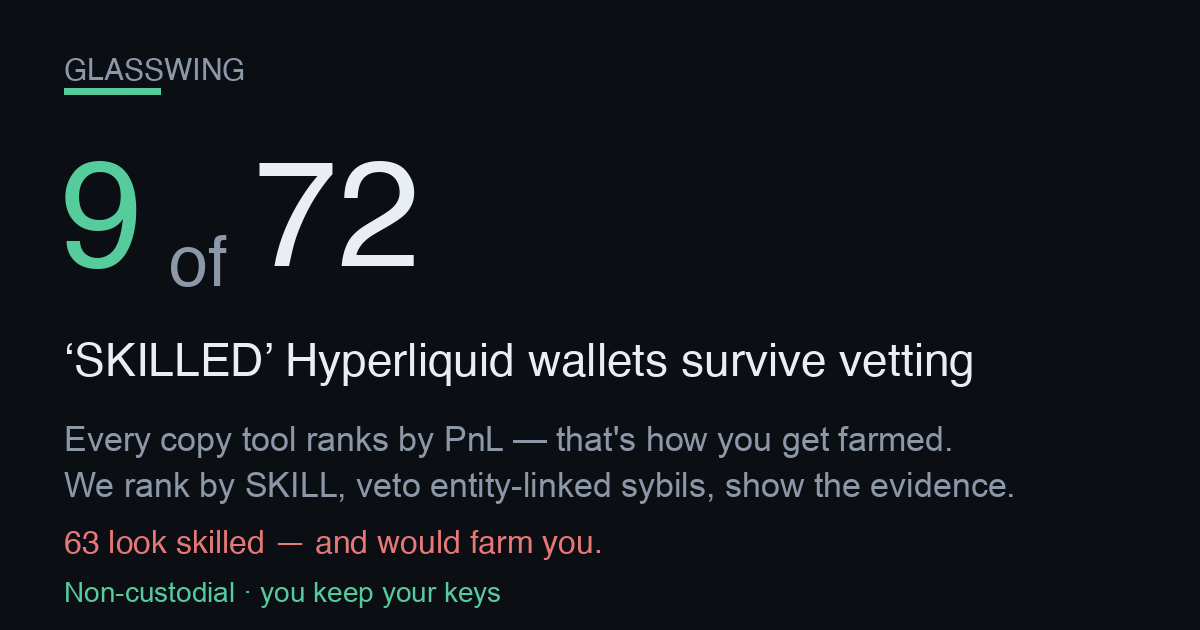
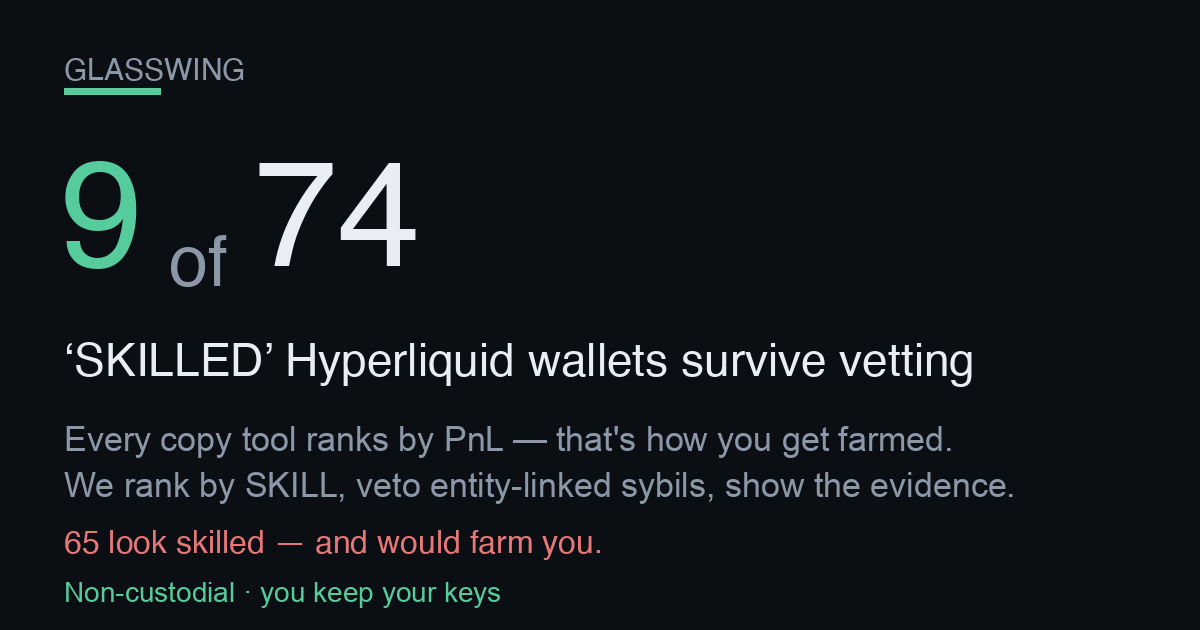
publish funnel 2026-07-26T18:18:38Z

Changed region(s): [[0.2775, 0.2413, 0.37, 0.4222], [0.0617, 0.8444, 0.0925, 0.8746]]

diff --git a/screener.html b/screener.html
@@ -57,4 +57,4 @@ padding:11px 22px;font-size:15px;font-weight:800;border:1px solid var(--good)}
 footer{margin-top:34px;color:var(--muted);font-size:12px;line-height:1.6;
 border-top:1px solid var(--line);padding-top:16px}
 footer b{color:var(--ink)}
-</style></head><body><div class="wrap"><div class="nav"><a href="./index.html">&larr; Glasswing home</a><span class="sep">|</span><span>Edge Screener</span><span class="sep">|</span><a href="./dex.html">Copy a vetted leader</a></div><div class="hero"><h1>Hyperliquid Edge Screener</h1><div class="sub">Where&rsquo;s the carry, where a maker earns, and what&rsquo;s moving on Hyperliquid &mdash; live, computed from the public API. Bookmark it. Every number below is real and timestamped.</div><div class="stamp">Data as of <b>2026-07-26T12:15:39Z</b> &middot; rendered 2026-07-26T12:15:39Z &middot; 177 perps &middot; 88 HIP-3 (xyz) markets scanned</div></div><h2>Top funding &mdash; the carry table <span class="hint">perps ranked by annualized funding. Positive = longs pay shorts (a delta-neutral short earns it).</span></h2><div class="tblwrap"><table><thead><tr><th>Coin</th><th>Funding / hr</th><th>Annualized</th><th>Who pays</th><th>Open interest</th><th>24h volume</th></tr></thead><tbody><tr><td class="coin">SAGA<span class="tag thin" title="Low liquidity/OI &mdash; ADL &amp; liquidation risk; funding can flip">&#9888; thin</span></td><td>+0.0531%</td><td class="pos">+465.3%</td><td><span class="tag longs">longs pay</span></td><td>$2.1M</td><td>$92K</td></tr><tr><td class="coin">ACE<span class="tag thin" title="Low liquidity/OI &mdash; ADL &amp; liquidation risk; funding can flip">&#9888; thin</span></td><td>-0.0165%</td><td class="neg">-145.0%</td><td><span class="tag shorts">shorts pay</span></td><td>$465K</td><td>$932K</td></tr><tr><td class="coin">VINE<span class="tag thin" title="Low liquidity/OI &mdash; ADL &amp; liquidation risk; funding can flip">&#9888; thin</span></td><td>+0.0138%</td><td class="pos">+120.6%</td><td><span class="tag longs">longs pay</span></td><td>$346K</td><td>$89K</td></tr><tr><td class="coin">ZORA</td><td>-0.0087%</td><td class="neg">-76.1%</td><td><span class="tag shorts">shorts pay</span></td><td>$632K</td><td>$335K</td></tr><tr><td class="coin">KAITO</td><td>-0.0079%</td><td class="neg">-69.5%</td><td><span class="tag shorts">shorts pay</span></td><td>$11.6M</td><td>$12.1M</td></tr><tr><td class="coin">NOT<span class="tag thin" title="Low liquidity/OI &mdash; ADL &amp; liquidation risk; funding can flip">&#9888; thin</span></td><td>-0.0078%</td><td class="neg">-68.8%</td><td><span class="tag shorts">shorts pay</span></td><td>$209K</td><td>$22K</td></tr><tr><td class="coin">UMA<span class="tag thin" title="Low liquidity/OI &mdash; ADL &amp; liquidation risk; funding can flip">&#9888; thin</span></td><td>-0.0057%</td><td class="neg">-50.3%</td><td><span class="tag shorts">shorts pay</span></td><td>$304K</td><td>$96K</td></tr><tr><td class="coin">HYPER<span class="tag thin" title="Low liquidity/OI &mdash; ADL &amp; liquidation risk; funding can flip">&#9888; thin</span></td><td>-0.0053%</td><td class="neg">-46.6%</td><td><span class="tag shorts">shorts pay</span></td><td>$321K</td><td>$97K</td></tr><tr><td class="coin">AXS<span class="tag thin" title="Low liquidity/OI &mdash; ADL &amp; liquidation risk; funding can flip">&#9888; thin</span></td><td>-0.0051%</td><td class="neg">-44.7%</td><td><span class="tag shorts">shorts pay</span></td><td>$310K</td><td>$64K</td></tr><tr><td class="coin">kPEPE</td><td>+0.0039%</td><td class="pos">+34.3%</td><td><span class="tag longs">longs pay</span></td><td>$23.6M</td><td>$14.6M</td></tr><tr><td class="coin">ME<span class="tag thin" title="Low liquidity/OI &mdash; ADL &amp; liquidation risk; funding can flip">&#9888; thin</span></td><td>-0.0037%</td><td class="neg">-32.7%</td><td><span class="tag shorts">shorts pay</span></td><td>$187K</td><td>$110K</td></tr><tr><td class="coin">AVNT<span class="tag thin" title="Low liquidity/OI &mdash; ADL &amp; liquidation risk; funding can flip">&#9888; thin</span></td><td>-0.0033%</td><td class="neg">-29.2%</td><td><span class="tag shorts">shorts pay</span></td><td>$655K</td><td>$159K</td></tr></tbody></table></div><h2>Widest HIP-3 spreads &mdash; where a maker earns <span class="hint">xyz: markets by impact-price spread vs the ~0.6bps round-trip fee. A resting limit order captures the gap.</span></h2><div class="tblwrap"><table><thead><tr><th>Market</th><th>Spread</th><th>vs 0.6bps fee</th><th>Mid</th><th>24h volume</th></tr></thead><tbody><tr><td class="coin">xyz:SOFTBANK<span class="tag gm">growth</span></td><td>253.2 bps</td><td class="pos">+252.6 bps</td><td>33.7360</td><td>$44K</td></tr><tr><td class="coin">xyz:GIGADEV<span class="tag gm">growth</span></td><td>161.4 bps</td><td class="pos">+160.8 bps</td><td>66.5070</td><td>$16K</td></tr><tr><td class="coin">xyz:BIRD<span class="tag gm">growth</span></td><td>124.3 bps</td><td class="pos">+123.7 bps</td><td>2.4937</td><td>$28K</td></tr><tr><td class="coin">xyz:KIOXIA<span class="tag gm">growth</span></td><td>100.8 bps</td><td class="pos">+100.2 bps</td><td>345.3550</td><td>$509K</td></tr><tr><td class="coin">xyz:KR200<span class="tag gm">growth</span></td><td>77.5 bps</td><td class="pos">+76.9 bps</td><td>1,052.50</td><td>$48K</td></tr><tr><td class="coin">xyz:MINIMAX<span class="tag gm">growth</span></td><td>70.3 bps</td><td class="pos">+69.7 bps</td><td>24.4780</td><td>$60K</td></tr><tr><td class="coin">xyz:PURRDAT</td><td>66.4 bps</td><td class="pos">+65.8 bps</td><td>6.3694</td><td>$204K</td></tr><tr><td class="coin">xyz:BOT<span class="tag gm">growth</span></td><td>54.5 bps</td><td class="pos">+53.9 bps</td><td>25.0280</td><td>$84K</td></tr><tr><td class="coin">xyz:GBP<span class="tag gm">growth</span></td><td>39.5 bps</td><td class="pos">+38.9 bps</td><td>1.3340</td><td>$57K</td></tr><tr><td class="coin">xyz:HIMS<span class="tag gm">growth</span></td><td>38.8 bps</td><td class="pos">+38.2 bps</td><td>28.2910</td><td>$126K</td></tr><tr><td class="coin">xyz:ZHIPU<span class="tag gm">growth</span></td><td>37.9 bps</td><td class="pos">+37.3 bps</td><td>159.9600</td><td>$387K</td></tr><tr><td class="coin">xyz:QNT<span class="tag gm">growth</span></td><td>36.9 bps</td><td class="pos">+36.3 bps</td><td>54.3830</td><td>$156K</td></tr></tbody></table></div><h2>Momentum &amp; volume &mdash; what&rsquo;s moving <span class="hint">perps by 24h volume with the 24h price change (mark vs prior-day).</span></h2><div class="tblwrap"><table><thead><tr><th>Coin</th><th>24h volume</th><th>24h change</th><th>Mark</th></tr></thead><tbody><tr><td class="coin">BTC</td><td>$462.9M</td><td class="pos">+0.86%</td><td>64,581.00</td></tr><tr><td class="coin">ETH</td><td>$247.5M</td><td class="pos">+1.76%</td><td>1,890.30</td></tr><tr><td class="coin">HYPE</td><td>$97.9M</td><td class="pos">+2.18%</td><td>58.7050</td></tr><tr><td class="coin">SOL</td><td>$83.5M</td><td class="pos">+1.53%</td><td>75.0030</td></tr><tr><td class="coin">kSHIB</td><td>$49.5M</td><td class="pos">+27.58%</td><td>0.005426</td></tr><tr><td class="coin">ZEC</td><td>$24.9M</td><td class="pos">+3.14%</td><td>493.4700</td></tr><tr><td class="coin">kPEPE</td><td>$14.6M</td><td class="pos">+12.29%</td><td>0.003016</td></tr><tr><td class="coin">XRP</td><td>$13.8M</td><td class="pos">+1.05%</td><td>1.1008</td></tr><tr><td class="coin">DOGE</td><td>$13.7M</td><td class="pos">+5.47%</td><td>0.073322</td></tr><tr><td class="coin">KAITO</td><td>$12.1M</td><td class="pos">+23.95%</td><td>1.1907</td></tr><tr><td class="coin">VVV</td><td>$11.4M</td><td class="pos">+10.46%</td><td>14.2620</td></tr><tr><td class="coin">PUMP</td><td>$8.7M</td><td class="pos">+2.94%</td><td>0.001821</td></tr></tbody></table></div><div class="cta"><h2>These are the opportunities. Now copy the people who trade them.</h2><p class="lead">Spotting the carry and the spreads is the easy part &mdash; sizing, timing and risk are where most traders bleed. Copy the <b>skill-vetted</b> Hyperliquid leaders who actually trade these edges. Non-custodial: <b>you keep your keys and your funds</b> the entire time.</p><div class="row"><a class="btn" href="./index.html">See the vetted leaders &rarr;</a><a class="btn ghost" href="./dex.html">Start copying (non-custodial) &rarr;</a></div><div class="nc"><b>Non-custodial &amp; honest:</b> we never hold your keys or funds. Copying routes through a <b>0.01%</b> (1bp) on-chain builder fee &mdash; that is the only thing we ever charge, and it is the same fee shown on the copy page. Nothing on this screener is executed for you; it is information only.</div></div><footer><b>Not financial advice.</b> Funding rates, spreads and volumes are live snapshots that change every block; figures can be stale by the time you act. A high funding rate is <b>not free money</b> &mdash; the biggest rates sit on the thinnest, most crowded books (flagged &#9888; thin), where funding can flip against you and auto-deleveraging (ADL) or liquidation can close your position. &ldquo;Spread&rdquo; here is the impact-price spread (a conservative maker signal), not a guaranteed fill. HIP-3 markets are experimental. Do your own research and size responsibly. Glasswing is <b>non-custodial</b> &mdash; we never take custody of your keys or funds.</footer></div></body></html>
+</style></head><body><div class="wrap"><div class="nav"><a href="./index.html">&larr; Glasswing home</a><span class="sep">|</span><span>Edge Screener</span><span class="sep">|</span><a href="./dex.html">Copy a vetted leader</a></div><div class="hero"><h1>Hyperliquid Edge Screener</h1><div class="sub">Where&rsquo;s the carry, where a maker earns, and what&rsquo;s moving on Hyperliquid &mdash; live, computed from the public API. Bookmark it. Every number below is real and timestamped.</div><div class="stamp">Data as of <b>2026-07-26T18:17:25Z</b> &middot; rendered 2026-07-26T18:17:25Z &middot; 177 perps &middot; 88 HIP-3 (xyz) markets scanned</div></div><h2>Top funding &mdash; the carry table <span class="hint">perps ranked by annualized funding. Positive = longs pay shorts (a delta-neutral short earns it).</span></h2><div class="tblwrap"><table><thead><tr><th>Coin</th><th>Funding / hr</th><th>Annualized</th><th>Who pays</th><th>Open interest</th><th>24h volume</th></tr></thead><tbody><tr><td class="coin">SAGA<span class="tag thin" title="Low liquidity/OI &mdash; ADL &amp; liquidation risk; funding can flip">&#9888; thin</span></td><td>+0.0543%</td><td class="pos">+476.0%</td><td><span class="tag longs">longs pay</span></td><td>$2.1M</td><td>$67K</td></tr><tr><td class="coin">ACE<span class="tag thin" title="Low liquidity/OI &mdash; ADL &amp; liquidation risk; funding can flip">&#9888; thin</span></td><td>-0.0279%</td><td class="neg">-244.1%</td><td><span class="tag shorts">shorts pay</span></td><td>$425K</td><td>$721K</td></tr><tr><td class="coin">CASHCAT</td><td>+0.0240%</td><td class="pos">+210.2%</td><td><span class="tag longs">longs pay</span></td><td>$10.2M</td><td>$5.5M</td></tr><tr><td class="coin">MEME<span class="tag thin" title="Low liquidity/OI &mdash; ADL &amp; liquidation risk; funding can flip">&#9888; thin</span></td><td>-0.0123%</td><td class="neg">-107.7%</td><td><span class="tag shorts">shorts pay</span></td><td>$419K</td><td>$106K</td></tr><tr><td class="coin">ZORA</td><td>-0.0122%</td><td class="neg">-106.9%</td><td><span class="tag shorts">shorts pay</span></td><td>$621K</td><td>$315K</td></tr><tr><td class="coin">XMR</td><td>+0.0095%</td><td class="pos">+83.6%</td><td><span class="tag longs">longs pay</span></td><td>$51.7M</td><td>$3.2M</td></tr><tr><td class="coin">XAI<span class="tag thin" title="Low liquidity/OI &mdash; ADL &amp; liquidation risk; funding can flip">&#9888; thin</span></td><td>-0.0064%</td><td class="neg">-56.2%</td><td><span class="tag shorts">shorts pay</span></td><td>$362K</td><td>$54K</td></tr><tr><td class="coin">UMA<span class="tag thin" title="Low liquidity/OI &mdash; ADL &amp; liquidation risk; funding can flip">&#9888; thin</span></td><td>-0.0062%</td><td class="neg">-54.5%</td><td><span class="tag shorts">shorts pay</span></td><td>$304K</td><td>$102K</td></tr><tr><td class="coin">MON</td><td>-0.0052%</td><td class="neg">-45.1%</td><td><span class="tag shorts">shorts pay</span></td><td>$23.8M</td><td>$1.8M</td></tr><tr><td class="coin">GRASS<span class="tag thin" title="Low liquidity/OI &mdash; ADL &amp; liquidation risk; funding can flip">&#9888; thin</span></td><td>+0.0048%</td><td class="pos">+42.2%</td><td><span class="tag longs">longs pay</span></td><td>$7.7M</td><td>$169K</td></tr><tr><td class="coin">TRUMP</td><td>-0.0042%</td><td class="neg">-36.5%</td><td><span class="tag shorts">shorts pay</span></td><td>$8.8M</td><td>$1.5M</td></tr><tr><td class="coin">KAITO</td><td>-0.0041%</td><td class="neg">-36.2%</td><td><span class="tag shorts">shorts pay</span></td><td>$11.2M</td><td>$20.5M</td></tr></tbody></table></div><h2>Widest HIP-3 spreads &mdash; where a maker earns <span class="hint">xyz: markets by impact-price spread vs the ~0.6bps round-trip fee. A resting limit order captures the gap.</span></h2><div class="tblwrap"><table><thead><tr><th>Market</th><th>Spread</th><th>vs 0.6bps fee</th><th>Mid</th><th>24h volume</th></tr></thead><tbody><tr><td class="coin">xyz:GIGADEV<span class="tag gm">growth</span></td><td>413.1 bps</td><td class="pos">+412.5 bps</td><td>66.6735</td><td>$10K</td></tr><tr><td class="coin">xyz:SOFTBANK<span class="tag gm">growth</span></td><td>201.1 bps</td><td class="pos">+200.5 bps</td><td>33.9970</td><td>$28K</td></tr><tr><td class="coin">xyz:BIRD<span class="tag gm">growth</span></td><td>170.3 bps</td><td class="pos">+169.7 bps</td><td>2.4958</td><td>$20K</td></tr><tr><td class="coin">xyz:PURRDAT</td><td>112.6 bps</td><td class="pos">+112.0 bps</td><td>6.4344</td><td>$224K</td></tr><tr><td class="coin">xyz:BOT<span class="tag gm">growth</span></td><td>99.7 bps</td><td class="pos">+99.1 bps</td><td>25.2850</td><td>$73K</td></tr><tr><td class="coin">xyz:KR200<span class="tag gm">growth</span></td><td>78.1 bps</td><td class="pos">+77.5 bps</td><td>1,057.65</td><td>$62K</td></tr><tr><td class="coin">xyz:MINIMAX<span class="tag gm">growth</span></td><td>74.2 bps</td><td class="pos">+73.6 bps</td><td>24.8010</td><td>$88K</td></tr><tr><td class="coin">xyz:KIOXIA<span class="tag gm">growth</span></td><td>71.5 bps</td><td class="pos">+70.9 bps</td><td>344.1250</td><td>$835K</td></tr><tr><td class="coin">xyz:URNM<span class="tag gm">growth</span></td><td>64.3 bps</td><td class="pos">+63.7 bps</td><td>49.7855</td><td>$14K</td></tr><tr><td class="coin">xyz:SHAZ<span class="tag gm">growth</span></td><td>58.1 bps</td><td class="pos">+57.5 bps</td><td>64.1060</td><td>$42K</td></tr><tr><td class="coin">xyz:GME<span class="tag gm">growth</span></td><td>48.4 bps</td><td class="pos">+47.8 bps</td><td>21.2755</td><td>$64K</td></tr><tr><td class="coin">xyz:SMH<span class="tag gm">growth</span></td><td>41.5 bps</td><td class="pos">+40.9 bps</td><td>569.9850</td><td>$385K</td></tr></tbody></table></div><h2>Momentum &amp; volume &mdash; what&rsquo;s moving <span class="hint">perps by 24h volume with the 24h price change (mark vs prior-day).</span></h2><div class="tblwrap"><table><thead><tr><th>Coin</th><th>24h volume</th><th>24h change</th><th>Mark</th></tr></thead><tbody><tr><td class="coin">BTC</td><td>$536.6M</td><td class="pos">+0.49%</td><td>64,645.00</td></tr><tr><td class="coin">ETH</td><td>$318.4M</td><td class="pos">+2.13%</td><td>1,912.90</td></tr><tr><td class="coin">HYPE</td><td>$103.8M</td><td class="pos">+1.34%</td><td>59.1025</td></tr><tr><td class="coin">SOL</td><td>$99.9M</td><td class="pos">+1.09%</td><td>75.3191</td></tr><tr><td class="coin">kSHIB</td><td>$47.4M</td><td class="pos">+4.57%</td><td>0.005197</td></tr><tr><td class="coin">kPEPE</td><td>$21.1M</td><td class="pos">+4.04%</td><td>0.002911</td></tr><tr><td class="coin">ZEC</td><td>$20.9M</td><td class="pos">+0.89%</td><td>492.3700</td></tr><tr><td class="coin">KAITO</td><td>$20.5M</td><td class="pos">+20.31%</td><td>1.1640</td></tr><tr><td class="coin">DOGE</td><td>$13.6M</td><td class="neg">-0.65%</td><td>0.072734</td></tr><tr><td class="coin">XRP</td><td>$13.2M</td><td class="neg">-0.16%</td><td>1.1004</td></tr><tr><td class="coin">PUMP</td><td>$11.6M</td><td class="pos">+2.73%</td><td>0.001843</td></tr><tr><td class="coin">VVV</td><td>$11.4M</td><td class="neg">-0.09%</td><td>13.7040</td></tr></tbody></table></div><div class="cta"><h2>These are the opportunities. Now copy the people who trade them.</h2><p class="lead">Spotting the carry and the spreads is the easy part &mdash; sizing, timing and risk are where most traders bleed. Copy the <b>skill-vetted</b> Hyperliquid leaders who actually trade these edges. Non-custodial: <b>you keep your keys and your funds</b> the entire time.</p><div class="row"><a class="btn" href="./index.html">See the vetted leaders &rarr;</a><a class="btn ghost" href="./dex.html">Start copying (non-custodial) &rarr;</a></div><div class="nc"><b>Non-custodial &amp; honest:</b> we never hold your keys or funds. Copying routes through a <b>0.01%</b> (1bp) on-chain builder fee &mdash; that is the only thing we ever charge, and it is the same fee shown on the copy page. Nothing on this screener is executed for you; it is information only.</div></div><footer><b>Not financial advice.</b> Funding rates, spreads and volumes are live snapshots that change every block; figures can be stale by the time you act. A high funding rate is <b>not free money</b> &mdash; the biggest rates sit on the thinnest, most crowded books (flagged &#9888; thin), where funding can flip against you and auto-deleveraging (ADL) or liquidation can close your position. &ldquo;Spread&rdquo; here is the impact-price spread (a conservative maker signal), not a guaranteed fill. HIP-3 markets are experimental. Do your own research and size responsibly. Glasswing is <b>non-custodial</b> &mdash; we never take custody of your keys or funds.</footer></div></body></html>

diff --git a/track.html b/track.html
@@ -62,35 +62,35 @@ font-weight:600;font-size:14px}
 <div class="wrap">
   <div class="hero">
     <h1>Self-verifying on-chain track record</h1>
-    <div class="big">$331.39</div>
+    <div class="big">$327.14</div>
     <div class="sub">current on-chain equity (perp + vault + spot USDC)</div>
     <div class="addr">0xbe6C1b09662BbE52CC93279D103Feb27985DdBc1</div>
-    <div class="stage early">7 days live — EARLY / NOT YET A MATURE RECORD</div>
+    <div class="stage early">8 days live — EARLY / NOT YET A MATURE RECORD</div>
   </div>
 
-  <div class="warnbar">EARLY-STAGE: this record is only 7 days live. It is NOT a mature track record and NOT an APR promise. We deliberately do not annualize a sample this young. Verify every figure yourself below.</div>
+  <div class="warnbar">EARLY-STAGE: this record is only 8 days live. It is NOT a mature track record and NOT an APR promise. We deliberately do not annualize a sample this young. Verify every figure yourself below.</div>
 
   <h2>On-chain figures <span style="color:var(--muted);font-weight:400;font-size:13px">
   &mdash; every one reproducible from the public info API</span></h2>
-  <table><tbody><tr><td class="k">On-chain equity (perp + vault + spot USDC)</td><td class="v">$331.39</td></tr><tr><td class="k">Perp account value</td><td class="v">$217.51</td></tr><tr><td class="k">Vault equity</td><td class="v">$49.74</td></tr><tr><td class="k">Spot USDC</td><td class="v">$64.14</td></tr><tr><td class="k">Withdrawable</td><td class="v">$93.33</td></tr></tbody></table>
+  <table><tbody><tr><td class="k">On-chain equity (perp + vault + spot USDC)</td><td class="v">$327.14</td></tr><tr><td class="k">Perp account value</td><td class="v">$213.15</td></tr><tr><td class="k">Vault equity</td><td class="v">$49.85</td></tr><tr><td class="k">Spot USDC</td><td class="v">$64.14</td></tr><tr><td class="k">Withdrawable</td><td class="v">$94.99</td></tr></tbody></table>
 
-  <h2>Vault deposits (on-chain)</h2><table><thead><tr><th>Vault address</th><th>Our equity</th></tr></thead><tbody><tr><td class="mono">0x2431edfcb662e6ff6deab113cc91878a0b53fb0f</td><td class="v">$0.01</td></tr><tr><td class="mono">0x697bc3dd77539fa84156d0e1c95287ea5524fd6b</td><td class="v">$25.53</td></tr><tr><td class="mono">0x8825e6ed11c7f9c0874579c9f4bba192b9e81c8f</td><td class="v">$0.12</td></tr><tr><td class="mono">0xc71f5a493b937e4b1798b86510630336a6dfd804</td><td class="v">$24.09</td></tr></tbody></table>
+  <h2>Vault deposits (on-chain)</h2><table><thead><tr><th>Vault address</th><th>Our equity</th></tr></thead><tbody><tr><td class="mono">0x2431edfcb662e6ff6deab113cc91878a0b53fb0f</td><td class="v">$0.01</td></tr><tr><td class="mono">0x697bc3dd77539fa84156d0e1c95287ea5524fd6b</td><td class="v">$25.59</td></tr><tr><td class="mono">0x8825e6ed11c7f9c0874579c9f4bba192b9e81c8f</td><td class="v">$0.12</td></tr><tr><td class="mono">0xc71f5a493b937e4b1798b86510630336a6dfd804</td><td class="v">$24.14</td></tr></tbody></table>
 
   <h2>Performance <span style="color:var(--muted);font-weight:400;font-size:13px">
   &mdash; honest stage, no annualization</span></h2>
-  <table><tbody><tr><td class="k">Days live (our formal record)</td><td class="v">7</td></tr><tr><td class="k">Maturity</td><td class="v">EARLY / NOT YET A MATURE RECORD</td></tr><tr><td class="k">Current real strategy income / day</td><td class="v">$0.0645</td></tr><tr><td class="k">Cumulative net income (if attributed)</td><td class="v">$0.4725</td></tr><tr><td class="k">Annualized APR</td><td class="v">intentionally NOT computed (record too young)</td></tr></tbody></table>
+  <table><tbody><tr><td class="k">Days live (our formal record)</td><td class="v">8</td></tr><tr><td class="k">Maturity</td><td class="v">EARLY / NOT YET A MATURE RECORD</td></tr><tr><td class="k">Current real strategy income / day</td><td class="v">$0.0639</td></tr><tr><td class="k">Cumulative net income (if attributed)</td><td class="v">$0.4815</td></tr><tr><td class="k">Annualized APR</td><td class="v">intentionally NOT computed (record too young)</td></tr></tbody></table>
 
   <h2>Strategy arms <span style="color:var(--muted);font-weight:400;font-size:13px">
   &mdash; internal marks, cross-checkable against chain equity</span></h2>
-  <table><thead><tr><th>Arm</th><th>Status</th><th>Real / day</th><th>Note</th></tr></thead><tbody><tr><td class="v">carry</td><td><span class="badge live">live</span></td><td class="v">$0.0645</td><td class="k"></td></tr><tr><td class="v">copy</td><td><span class="badge live">live</span></td><td class="v">$0.0000</td><td class="k"></td></tr><tr><td class="v">builder</td><td><span class="badge off">—</span></td><td class="v">$0.0000</td><td class="k">proven live; $0 until distributed (∝ users&#x27; volume)</td></tr></tbody></table>
+  <table><thead><tr><th>Arm</th><th>Status</th><th>Real / day</th><th>Note</th></tr></thead><tbody><tr><td class="v">carry</td><td><span class="badge live">live</span></td><td class="v">$0.0639</td><td class="k"></td></tr><tr><td class="v">copy</td><td><span class="badge live">live</span></td><td class="v">$0.0000</td><td class="k"></td></tr><tr><td class="v">builder</td><td><span class="badge off">—</span></td><td class="v">$0.0000</td><td class="k">proven live; $0 until distributed (∝ users&#x27; volume)</td></tr></tbody></table>
 
   <h2>Reproduce it</h2>
   <div class="verify"><h3>Verify this yourself</h3><p>These are PUBLIC calls. Run them yourself against the address below and you will re-derive every on-chain figure on this page. equity_usd = perp accountValue + vault equity + spot USDC. Endpoint: https://api.hyperliquid.xyz/info</p><div class="cn">clearinghouseState &rarr; marginSummary.accountValue (perp value), withdrawable, marginSummary.totalMarginUsed</div><pre>curl -s -X POST https://api.hyperliquid.xyz/info -H &#x27;Content-Type: application/json&#x27; -d &#x27;{&quot;type&quot;: &quot;clearinghouseState&quot;, &quot;user&quot;: &quot;0xbe6C1b09662BbE52CC93279D103Feb27985DdBc1&quot;}&#x27;</pre><div class="cn">userVaultEquities &rarr; sum of each entry&#x27;s equity (our vault deposits)</div><pre>curl -s -X POST https://api.hyperliquid.xyz/info -H &#x27;Content-Type: application/json&#x27; -d &#x27;{&quot;type&quot;: &quot;userVaultEquities&quot;, &quot;user&quot;: &quot;0xbe6C1b09662BbE52CC93279D103Feb27985DdBc1&quot;}&#x27;</pre><div class="cn">spotClearinghouseState &rarr; balances[] where coin==USDC -&gt; total (spot USDC)</div><pre>curl -s -X POST https://api.hyperliquid.xyz/info -H &#x27;Content-Type: application/json&#x27; -d &#x27;{&quot;type&quot;: &quot;spotClearinghouseState&quot;, &quot;user&quot;: &quot;0xbe6C1b09662BbE52CC93279D103Feb27985DdBc1&quot;}&#x27;</pre></div>
 
   <footer>
     <div>Self-verifying: every on-chain figure is reproducible by querying Hyperliquid&#x27;s public info API for the stated address. Internal daily marks are cross-checkable against on-chain equity. EARLY-STAGE record — not a mature track record, not an APR promise, not financial advice. Past performance != future results.</div>
-    <div class="stamp">Generated at 2026-07-26T12:15:13Z &middot; internal marks
-    mtime 2026-07-26T10:51:04Z &middot; static receipt, no live
+    <div class="stamp">Generated at 2026-07-26T18:16:36Z &middot; internal marks
+    mtime 2026-07-26T16:51:15Z &middot; static receipt, no live
     authority — this page never trades or arms.</div>
   </footer>
 </div>

diff --git a/index.html b/index.html
@@ -3,8 +3,8 @@
 <head>
 <meta charset="utf-8">
 <meta name="viewport" content="width=device-width, initial-scale=1">
-<title>9 of 72 SKILLED Hyperliquid wallets survive vetting</title>
-<meta name="description" content="9 of 72 leaderboard-SKILLED Hyperliquid wallets survive vetting. Copy only the survivors, non-custodial — you keep your keys and funds.">
+<title>9 of 74 SKILLED Hyperliquid wallets survive vetting</title>
+<meta name="description" content="9 of 74 leaderboard-SKILLED Hyperliquid wallets survive vetting. Copy only the survivors, non-custodial — you keep your keys and funds.">
 <link rel="canonical" href="https://dynobit.github.io/glasswing/">
 <meta name="robots" content="index,follow">
 <meta name="theme-color" content="#0b0e13">
@@ -14,14 +14,14 @@
      head, not this. og:url is the canonical Pages home so every share resolves here. -->
 <meta property="og:type" content="website">
 <meta property="og:site_name" content="Glasswing">
-<meta property="og:title" content="9 of 72 SKILLED Hyperliquid wallets survive vetting">
+<meta property="og:title" content="9 of 74 SKILLED Hyperliquid wallets survive vetting">
 <meta property="og:description" content="Every copy tool ranks leaders by PnL — which is how you get farmed. This ranks by SKILL, then vetoes entity-linked sybils, and shows the evidence for every reject. Non-custodial: you keep your keys.">
 <meta property="og:url" content="https://dynobit.github.io/glasswing/">
 <meta property="og:image" content="https://dynobit.github.io/glasswing/og-card.png">
 <meta property="og:image:width" content="1200">
 <meta property="og:image:height" content="630">
 <meta name="twitter:card" content="summary_large_image">
-<meta name="twitter:title" content="9 of 72 SKILLED Hyperliquid wallets survive vetting">
+<meta name="twitter:title" content="9 of 74 SKILLED Hyperliquid wallets survive vetting">
 <meta name="twitter:description" content="Skill-ranked (not PnL-ranked) HL copy-leaders, entity-linked sybils vetoed with evidence. Non-custodial.">
 <meta name="twitter:image" content="https://dynobit.github.io/glasswing/og-card.png">
 <style>
@@ -135,18 +135,18 @@ footer .nc{color:var(--good);font-weight:600}
 
   <!-- 1. HERO — the shareable hook (screenshot-worthy) -->
   <div class="hero">
-    <h1><span class="big">9 of 72</span> &lsquo;SKILLED&rsquo;
+    <h1><span class="big">9 of 74</span> &lsquo;SKILLED&rsquo;
     Hyperliquid wallets survive vetting</h1>
-    <div class="sub">The other <span class="trap">63</span> look skilled on a
+    <div class="sub">The other <span class="trap">65</span> look skilled on a
     raw copy leaderboard but would farm you &mdash; here are the
-    <span class="trap">63</span> that would. Entity-linked sybils,
-    wash-traded track records, or simply unscreened. 12.5% survive.
-    Universe: 596 scored wallets.</div>
+    <span class="trap">65</span> that would. Entity-linked sybils,
+    wash-traded track records, or simply unscreened. 12.2% survive.
+    Universe: 616 scored wallets.</div>
   </div>
 
   <!-- 2. THE WEDGE — the marketing (why us, not any other copy tool) -->
   <div class="wedge"><span class="them">Every other copy tool ranks all
-    72 by PnL and calls it a leaderboard.</span> We are the only one that
+    74 by PnL and calls it a leaderboard.</span> We are the only one that
     <b>flags the entity-linked and farming wallets with on-chain evidence</b> &mdash;
     transfer-graph linkage between wallets and arXiv memecoin farm-features &mdash;
     and shows you only the 9 that survive. A high PnL is exactly what a
@@ -268,7 +268,7 @@ footer .nc{color:var(--good);font-weight:600}
   <footer>
     <div class="nc">Non-custodial: we never hold your keys or funds. No server, no backend. Your browser talks only to Hyperliquid&#x27;s public API.</div>
     <div>Advisory. Skill = sign-randomization null vs luck. Entity veto = public transfer-graph linkage. Farm screen = arXiv:2601.08641 features (memecoin thresholds, HL-uncalibrated). Follower-realizable PnL is NOT yet proven — a PRE-COMMITTED forward test is in progress (0/2 windows, earliest 2026-08-13); the copyability claim publishes only when the pre-registered windows close, so it cannot be discovery-mined. Exit-alpha shown is advisory. Not financial advice.</div>
-    <div class="stamp">Generated at 2026-07-26T12:15:18Z &middot; single-file funnel,
+    <div class="stamp">Generated at 2026-07-26T18:16:52Z &middot; single-file funnel,
     no live authority. In-browser order signing is IMPLEMENTED (real secp256k1 +
     keccak + msgpack EIP-712 from a pinned CDN) but UNVALIDATED against Hyperliquid:
     mainnet is blocked until a testnet order is proven accepted.</div>

diff --git a/dex.html b/dex.html
@@ -112,8 +112,8 @@ footer .nc{color:var(--good);font-weight:600}
     funds and your keys the whole time. Two signatures in your own wallet, an
     ephemeral in-browser agent key that can trade but never withdraw, and a
     client-side loop that mirrors only the
-    <b>9 of 72</b> vetted survivors
-    (universe: 596 scored wallets). No server, no backend.</div>
+    <b>9 of 74</b> vetted survivors
+    (universe: 616 scored wallets). No server, no backend.</div>
     <div class="tag">static bundle &middot; IPFS-publishable &middot; revenue accrues on-chain</div>
   </div>
 
@@ -217,7 +217,7 @@ footer .nc{color:var(--good);font-weight:600}
   <footer>
     <div class="nc">Pure DEX, self-custodial. No server, no backend, no key we ever hold. Your browser talks only to Hyperliquid&#x27;s public API.</div>
     <div>Advisory. Skill = sign-randomization null vs luck. Entity veto = public transfer-graph linkage. Farm screen = arXiv:2601.08641 features (memecoin thresholds, HL-uncalibrated). Follower-realizable PnL is NOT yet proven — a PRE-COMMITTED forward test is in progress (0/2 windows, earliest 2026-08-13); the copyability claim publishes only when the pre-registered windows close, so it cannot be discovery-mined. Exit-alpha shown is advisory. Not financial advice.</div>
-    <div class="stamp">Generated at 2026-07-26T12:15:18Z &middot; static,
+    <div class="stamp">Generated at 2026-07-26T18:16:52Z &middot; static,
     self-custodial surface, no live authority. In-browser order signing is
     IMPLEMENTED (real secp256k1 + keccak + msgpack EIP-712 from a pinned CDN) but
     UNVALIDATED against Hyperliquid: mainnet is blocked until a testnet order is
